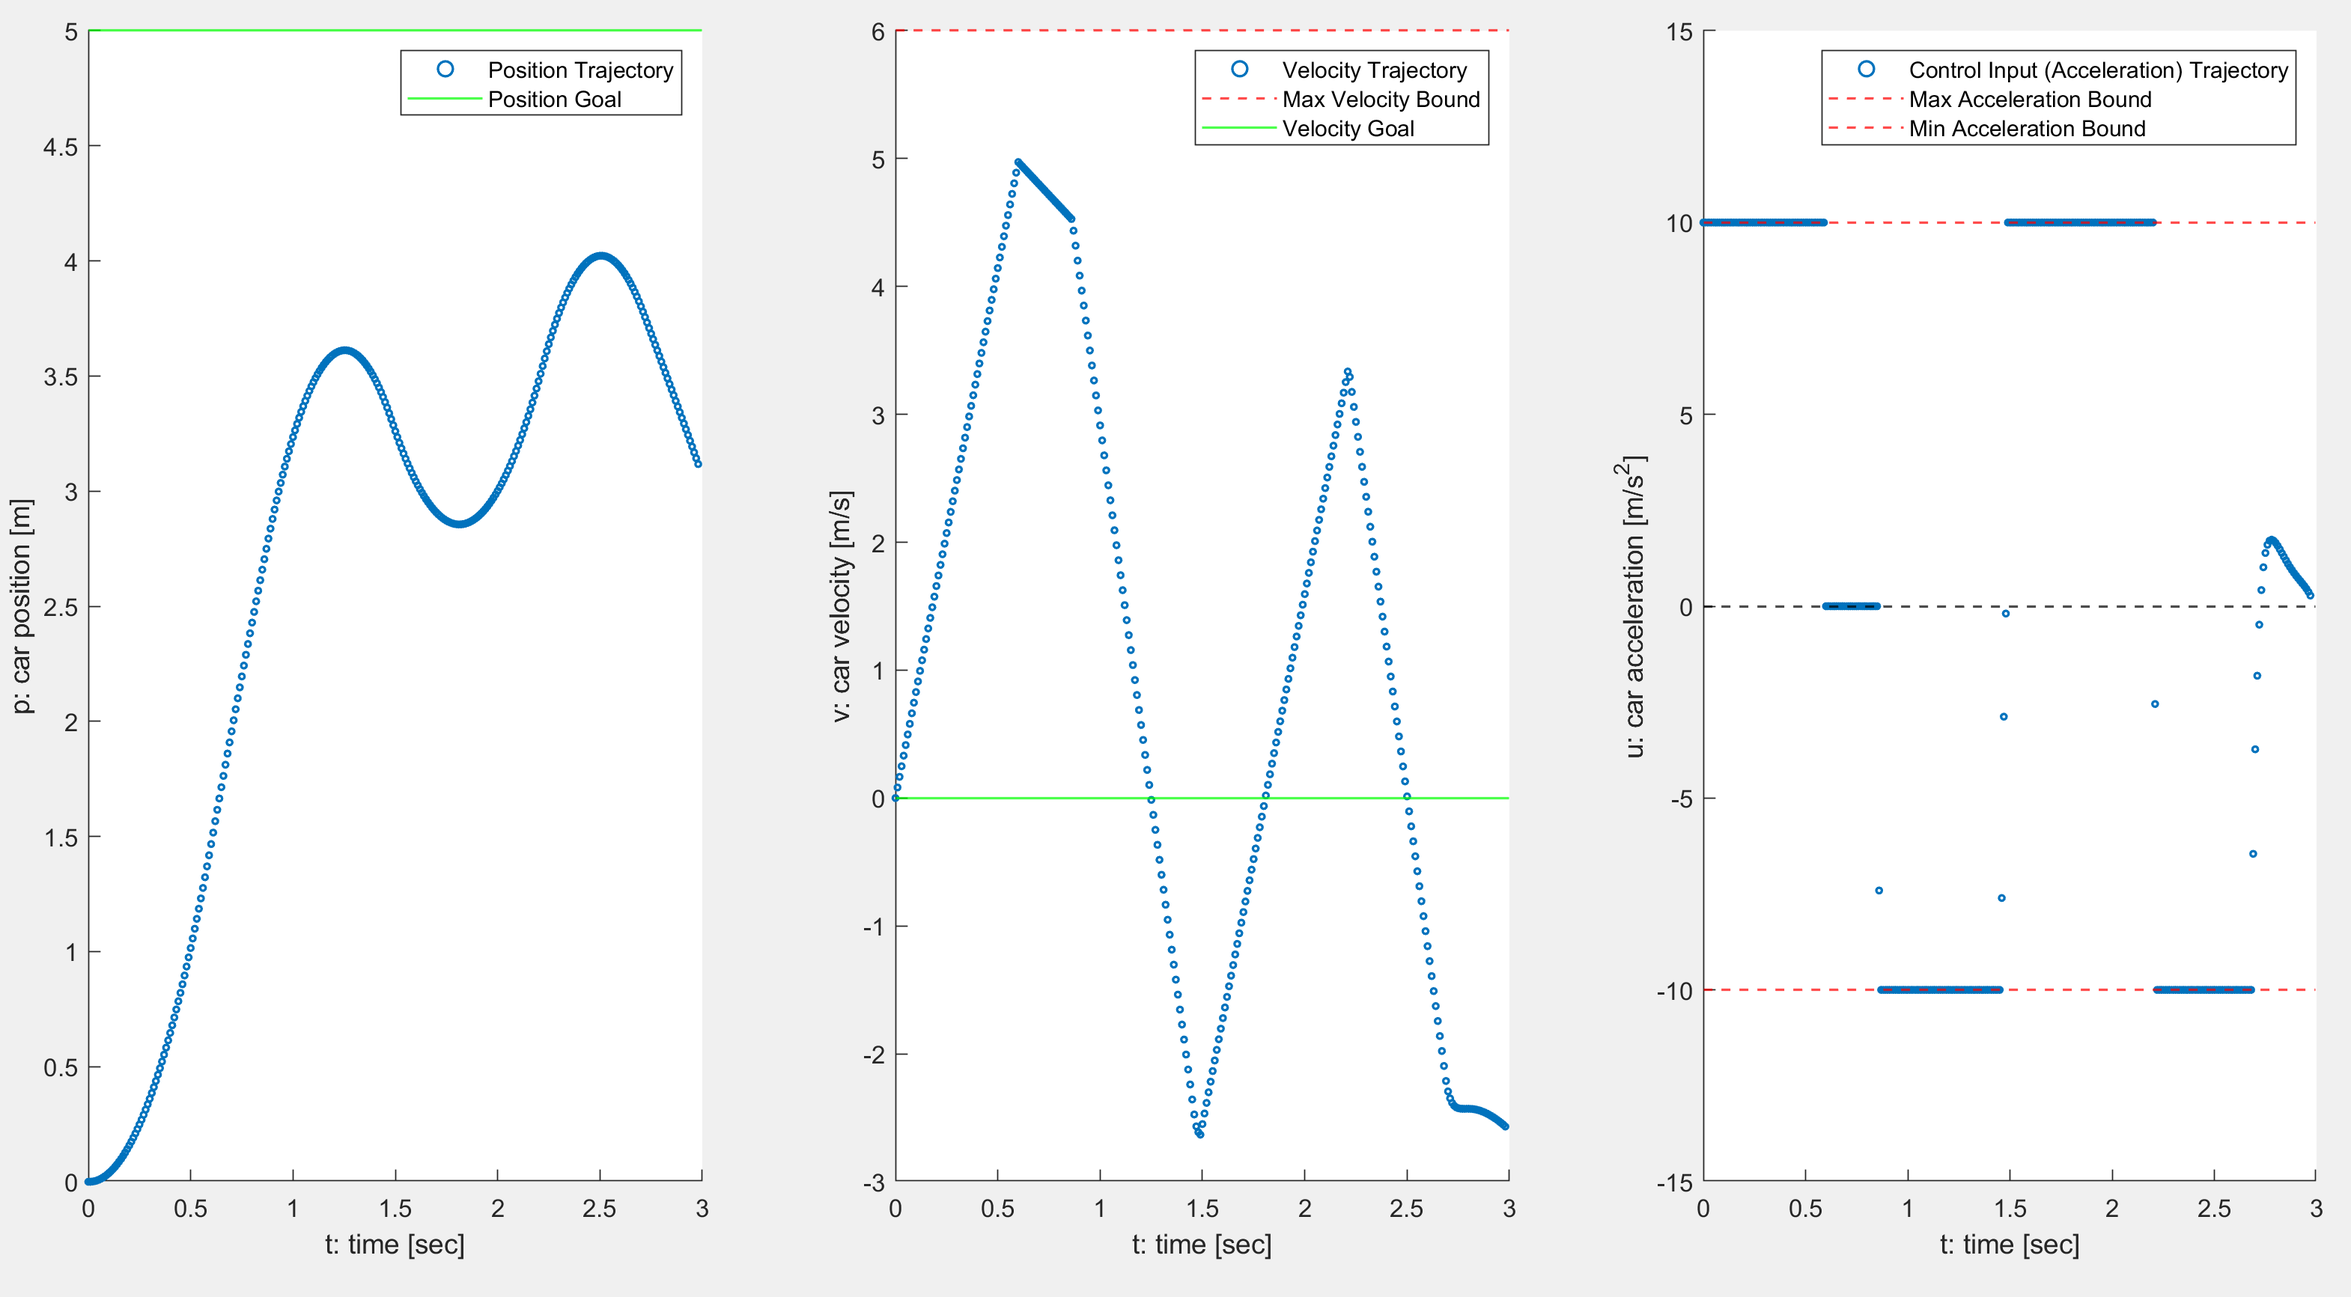
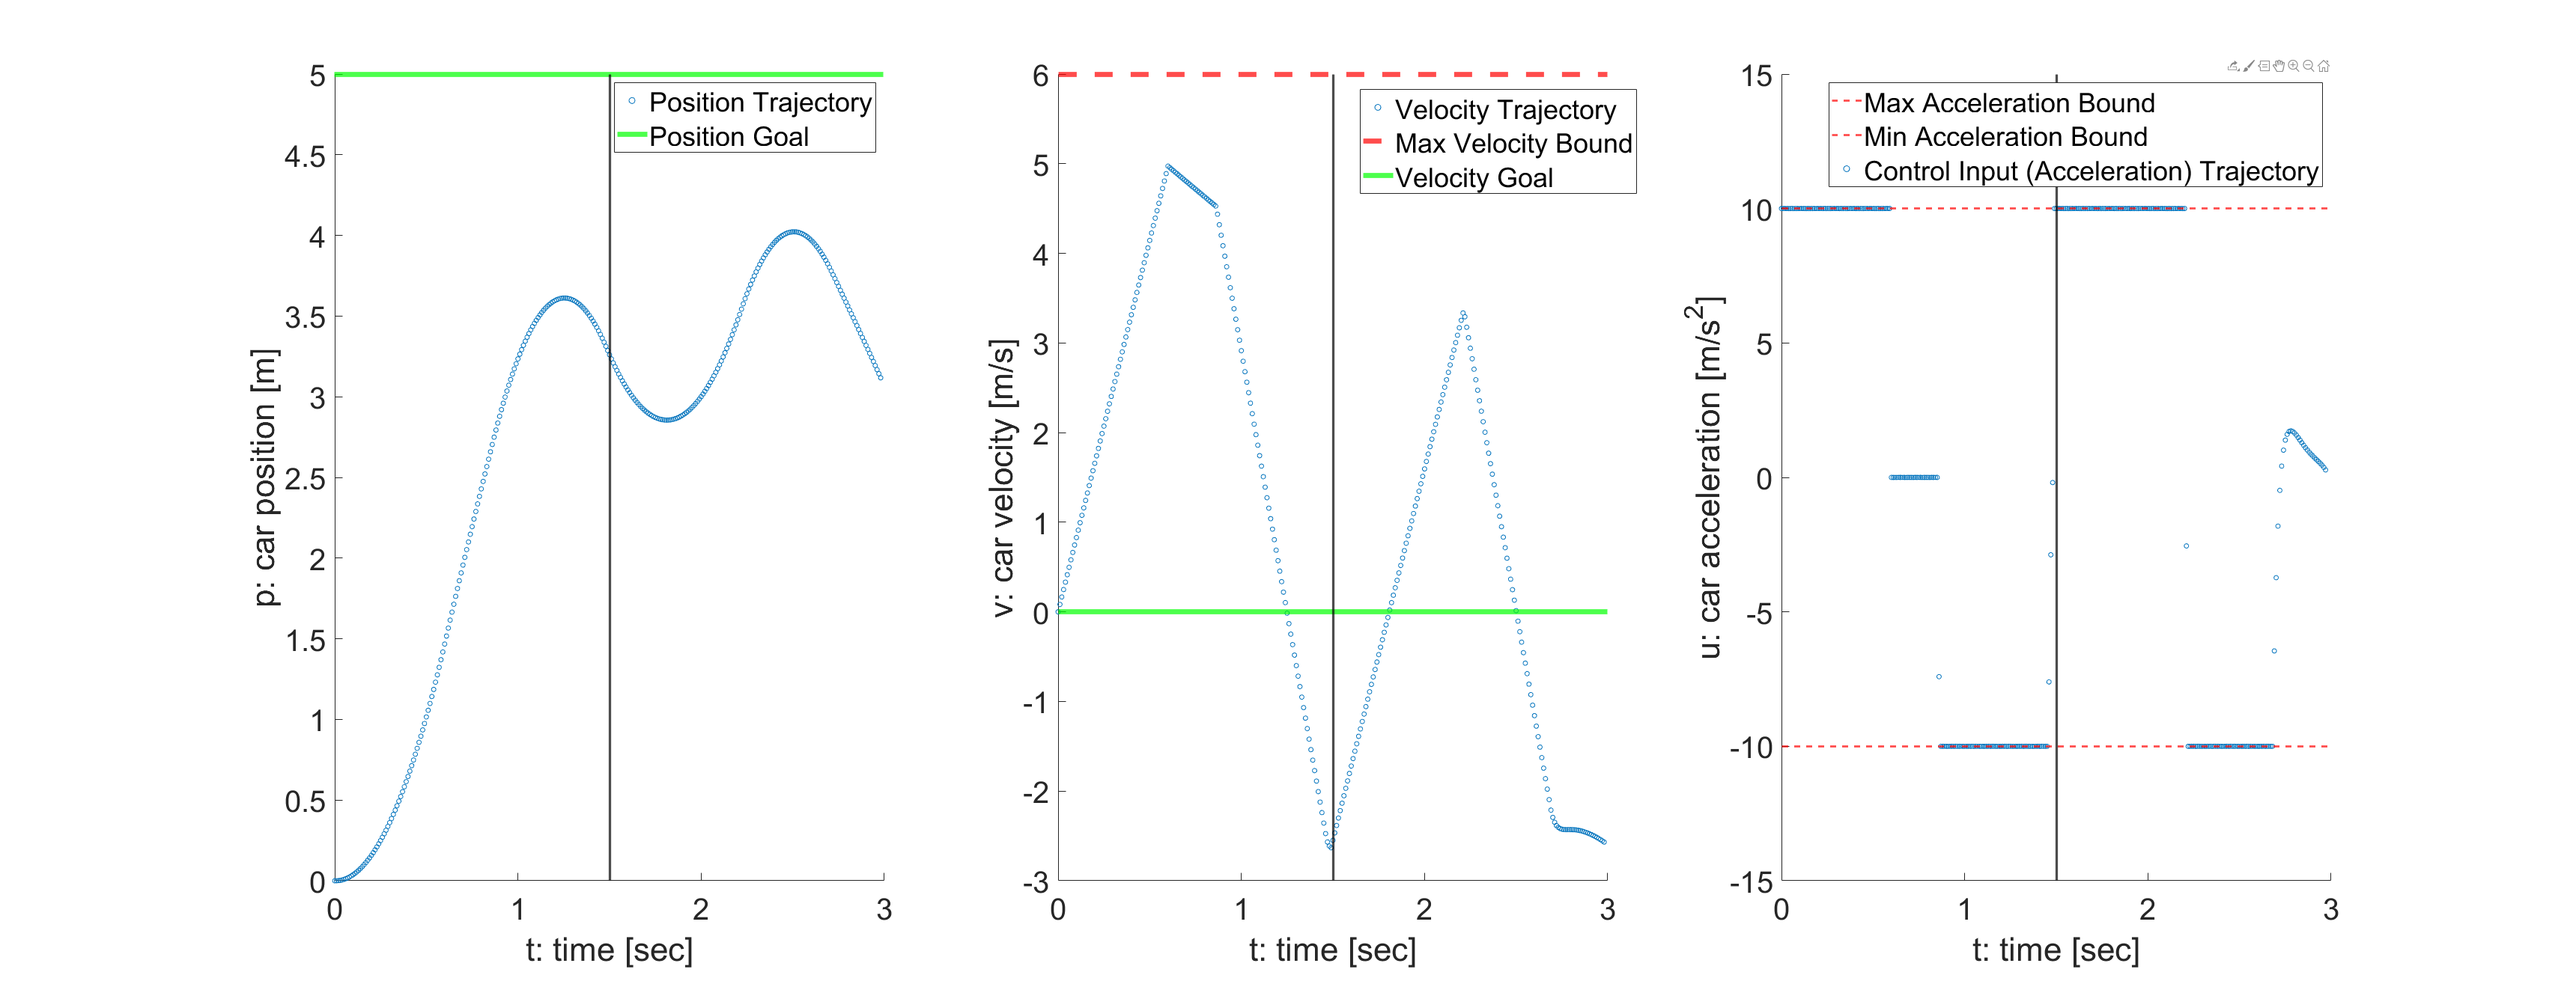
Added figures

diff --git a/example/Problem_3.m b/example/Problem_3.m
@@ -116,7 +116,7 @@ end
 % save(name,'slack_var_guess');
 
 %% Plot trajectories
-Plot_Traj(t_traj,x_traj,u_traj);
+Plot_Traj(t_traj,x_traj,u_traj,prob3);
 
 %% Animation
 % Animation(x_traj,x_goal,tspan,dt);
@@ -188,38 +188,73 @@ bin = [X_max - M*x_init;
 end
 
 % Plot Trajectories
-function [] = Plot_Traj(t_traj,x_traj,u_traj)
-wd = 1;
-sz = 5;
+function [] = Plot_Traj(t_traj,x_traj,u_traj,prob3)
+wdline = 5;
+sz = 20;
+ft = 30;
 figure;
 subplot(131);
-scatter(t_traj,x_traj(1,:),sz,'LineWidth',wd);
-hold on; yline(5,'g','LineWidth',wd);
+scatter(t_traj,x_traj(1,:),sz);
+hold on; yline(5,'g','LineWidth',wdline);
+switch prob3
+    case 'a'
+    case 'b'
+    case 'c'
+        hold on; xline(1.5,'k','LineWidth',wdline/2);
+    case 'd'
+        for k = 1:9
+            hold on; xline(k*0.3,':k','LineWidth',wdline/5);
+        end
+end
 xlabel('t: time [sec]');
 ylabel('p: car position [m]');
 legend('Position Trajectory',...
        'Position Goal');
+set(gca,'FontSize',ft);
 
 subplot(132);
-scatter(t_traj,x_traj(2,:),sz,'LineWidth',wd);
-hold on; yline(6,'--r','LineWidth',wd);
-hold on; yline(0,'g','LineWidth',wd);
+scatter(t_traj,x_traj(2,:),sz);
+hold on; yline(6,'--r','LineWidth',wdline);
+hold on; yline(0,'g','LineWidth',wdline);
+switch prob3
+    case 'a'
+    case 'b'
+    case 'c'
+        hold on; xline(1.5,'k','LineWidth',wdline/2);
+    case 'd'
+        for k = 1:9
+            hold on; xline(k*0.3,':k','LineWidth',wdline/5);
+        end
+end
 xlabel('t: time [sec]');
 ylabel('v: car velocity [m/s]');
 legend('Velocity Trajectory',...
        'Max Velocity Bound',...
        'Velocity Goal');
+set(gca,'FontSize',ft);
 
 subplot(133);
-scatter(t_traj(1:end-1),u_traj,sz,'LineWidth',wd);
-hold on; yline(10,'--r','LineWidth',wd);
-hold on; yline(-10,'--r','LineWidth',wd);
-hold on; yline(0,'--k','LineWidth',wd);
+hold on; yline(10,'--r','LineWidth',2);
+hold on; yline(-10,'--r','LineWidth',2);
+hold on; scatter(t_traj(1:end-1),u_traj,sz);
+switch prob3
+    case 'a'
+    case 'b'
+    case 'c'
+        hold on; xline(1.5,'k','LineWidth',wdline/2);
+    case 'd'
+        for k = 1:9
+            hold on; xline(k*0.3,':k','LineWidth',wdline/5);
+        end
+    case 'e'
+        yline(0,'k','Linewidth',1);
+end
 xlabel('t: time [sec]');
 ylabel('u: car acceleration [m/s^2]');
-legend('Control Input (Acceleration) Trajectory',...
-       'Max Acceleration Bound',...
-       'Min Acceleration Bound');
+legend('Max Acceleration Bound',...
+       'Min Acceleration Bound',...
+       'Control Input (Acceleration) Trajectory');
+set(gca,'FontSize',ft);
 end
 
 function [] = Animation(x_traj,x_goal,tspan,dt)

diff --git a/segway/Segway_main.m b/segway/Segway_main.m
@@ -15,8 +15,8 @@ addpath(genpath('segway_functions'));
 addpath(genpath('mpc_functions'));
 
 %% Set Initial Conditon & Simulate
-segprob = "vel";    % "pos" or "vel"
-t_end = 50;       % Time to simulate 
+segprob = "pos";    % "pos" or "vel"
+t_end = 30;       % Time to simulate 
 [t_sim,x_sim,params_sim] = Segway_simulate(t_end,segprob);
 
 %% Plot State/Output variables

diff --git a/segway/segway_functions/Segway_plot.m b/segway/segway_functions/Segway_plot.m
@@ -5,10 +5,10 @@ u_sim = Extract_Torques(t_sim,x_sim,params);
 % absolute_segway_angular_velocity = [0 0 1 1]*x_sim';
 
 %% Plot settings
-font_title = 18;
-font_label = 16;
+font_title = 30;
+font_label = 30;
 line_width = 1;
-sz = 1;
+sz = 10;
 
 %% Plot state trajectories
 figure
